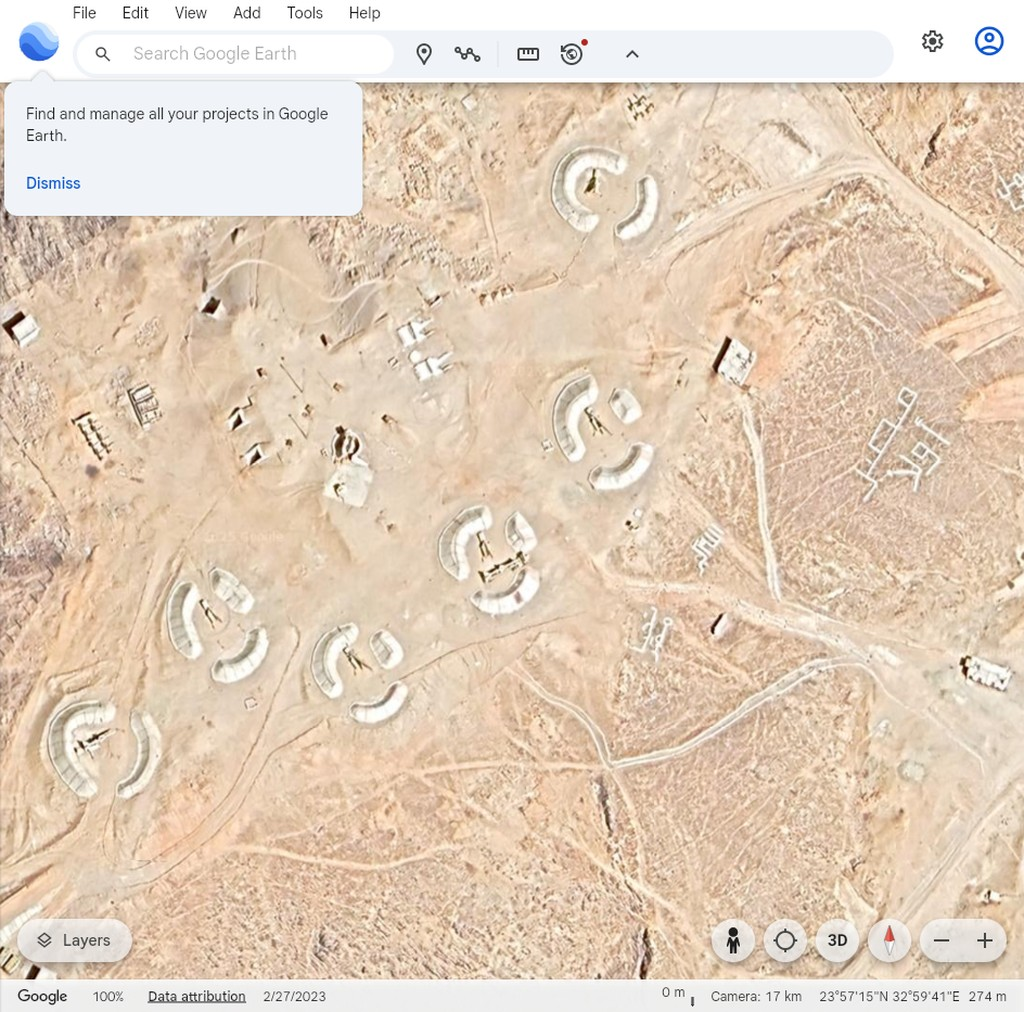
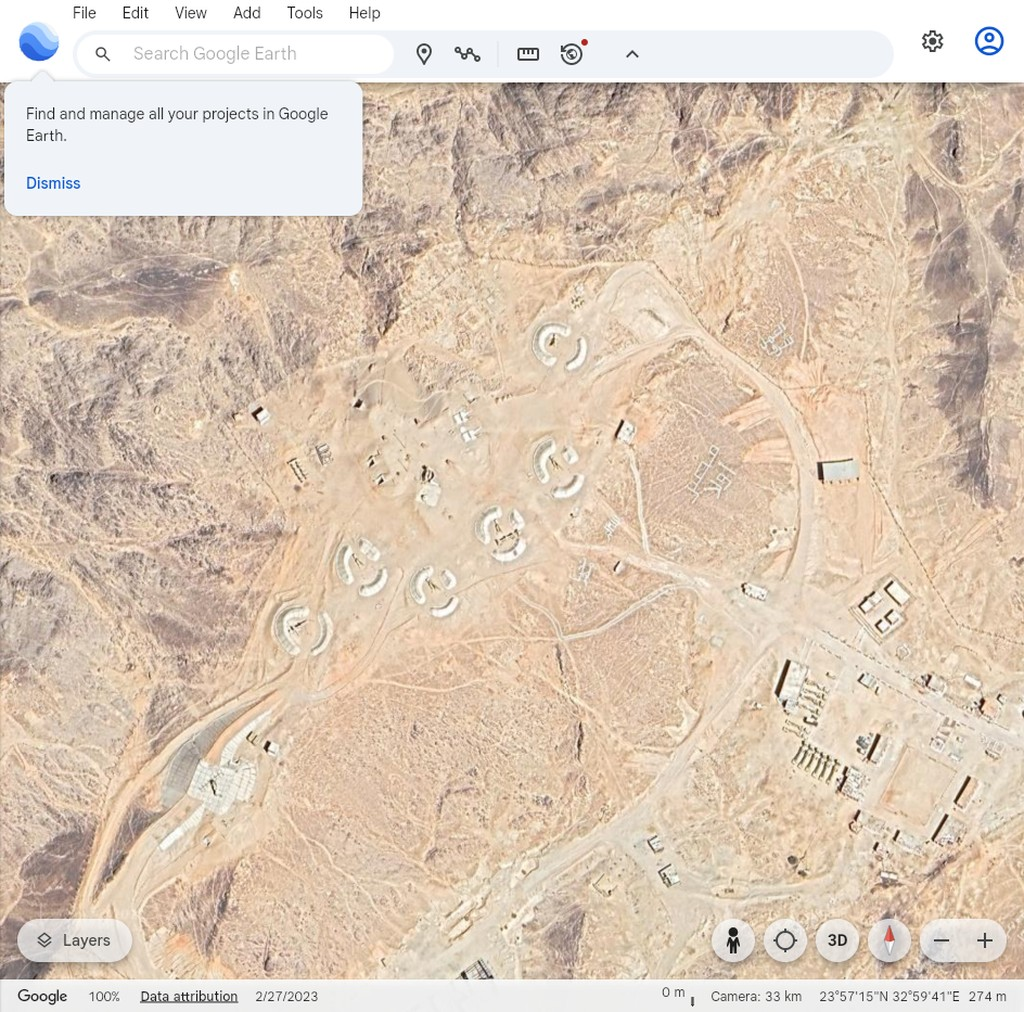
Changed API call timeout handling and API key

diff --git a/base_analyzer.py b/base_analyzer.py
@@ -24,13 +24,15 @@ from PIL import Image
 import google.generativeai as genai
 from dotenv import load_dotenv
 import concurrent.futures
+import multiprocessing
 
 # ---------- configurable constants ----------
 CSV_PATH           = "military_bases.csv"
+START_INDEX = 0
 ROWS_TO_PROCESS    = 1
 # – Camera defaults (tweak to taste) –
 ALTITUDE_M         = 8000                 # metres above sea level (…a)
-DISTANCE_M         = 9000                 # camera distance (…d)
+DISTANCE_M         = 25000                # camera distance (…d)
 TILT_DEG           = 0                    # 0 = nadir (straight down)
 HEADING_DEG        = 0                    # 0 = face north
 ROLL_DEG           = 0                    # leave 0
@@ -50,10 +52,12 @@ STABILITY_ROUNDS = 2          # how many rounds of similarity we require
 # Load Gemini api key
 load_dotenv()
 api_key = os.getenv("GEMINI_API_KEY")
+print(f"🔐 Using Gemini API key: {api_key[:6]}...")  
+print(f"🔐 Using Gemini API key: ...{api_key[-6:]}")  
 
 genai.configure(api_key=api_key)
 
-model = genai.GenerativeModel("gemini-2.0-flash-exp-image-generation")
+model = genai.GenerativeModel("gemini-2.0-flash-lite")
 
 # prompt = "Describe what you see in this image."
 
@@ -77,8 +81,9 @@ class Base:
                 f"{HEADING_DEG:.0f}h,0t,{ROLL_DEG:.0f}r")
 
 
-def read_first_bases(csv_path: str, n_rows: int) -> list[Base]:
-    df = pd.read_csv(csv_path, nrows=n_rows)
+def read_first_bases(csv_path: str, n_rows: int, start_index: int = 0) -> list[Base]:
+    df = pd.read_csv(csv_path, skiprows=range(1, start_index + 1), nrows=n_rows)
+    df.columns = ["id", "country", "latitude", "longitude", "google_maps_link"]
     bases = [
         Base(
             id=row["id"],
@@ -90,28 +95,48 @@ def read_first_bases(csv_path: str, n_rows: int) -> list[Base]:
     ]
     return bases
 
+def _gemini_worker(img_path, country, queue):
+    try:
+        prompt = (
+            f"You are an expert in understanding satellite imagery and you work for the US army. "
+            f"We got intel that this area is a base/facility of the military of {country}. "
+            f"Analyze this image, try to find military devices, structures, etc. and tell me your findings."
+        )
+        img = Image.open(img_path)
+        response = model.generate_content([prompt, img])
+        queue.put(response.text)
+    except Exception as e:
+        queue.put(f"[ERROR] Gemini API failed: {e}")
 
 def analyze_with_gemini(img_path: str, country: str, timeout_seconds: int = 30):
-    prompt = (
-        f"You are an expert in understanding satellite imagery and you work for the US army. "
-        f"We got intel that this area is a base/facility of the military of {country}. "
-        f"Analyze this image, try to find military devices, structures, etc. and tell me your findings."
-    )
 
-    def call_model():
-        try:
-            img = Image.open(img_path)
-            response = model.generate_content([prompt, img])
-            return response.text
-        except Exception as e:
-            return f"[ERROR] Gemini call failed: {e}"
+    queue = multiprocessing.Queue()
+    proc = multiprocessing.Process(target=_gemini_worker, args=(img_path, country, queue))
+    proc.start()
+    proc.join(timeout_seconds)
+
+    if proc.is_alive():
+        proc.terminate()
+        proc.join()
+        return "[TIMEOUT] Gemini API call took too long and was forcefully stopped."
+
+    return queue.get() if not queue.empty() else "[ERROR] No response from Gemini."
+
+
+    # def call_model():
+    #     try:
+    #         img = Image.open(img_path)
+    #         response = model.generate_content([prompt, img])
+    #         return response.text
+    #     except Exception as e:
+    #         return f"[ERROR] Gemini call failed: {e}"
     
-    with concurrent.futures.ThreadPoolExecutor() as executor:
-        future = executor.submit(call_model)
-        try:
-            return future.result(timeout=timeout_seconds)
-        except concurrent.futures.TimeoutError:
-            return "[TIMEOUT] Gemini API call took too long and was aborted."
+    # with concurrent.futures.ThreadPoolExecutor() as executor:
+    #     future = executor.submit(call_model)
+    #     try:
+    #         return future.result(timeout=timeout_seconds)
+    #     except concurrent.futures.TimeoutError:
+    #         return "[TIMEOUT] Gemini API call took too long and was aborted."
 
 def new_driver() -> webdriver.Chrome:
     """Launch Chrome with GUI (not headless)."""
@@ -195,7 +220,7 @@ def wait_for_tiles(driver: webdriver.Chrome):
 
 
 def grab_screens():
-    bases = read_first_bases(CSV_PATH, ROWS_TO_PROCESS)
+    bases = read_first_bases(CSV_PATH, ROWS_TO_PROCESS, START_INDEX)
     driver = new_driver()
 
     for i, base in enumerate(bases, 1):
